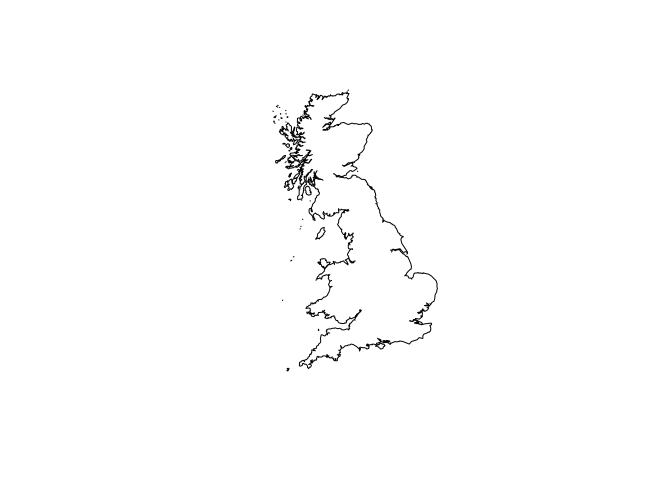
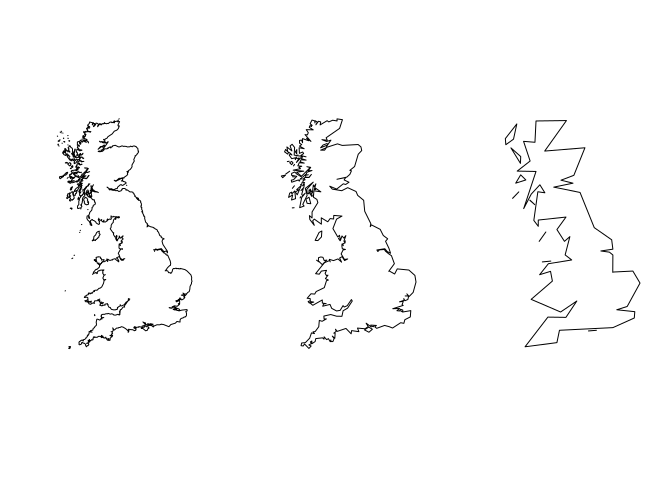
show resolution differences

diff --git a/README.md b/README.md
@@ -30,8 +30,19 @@ gshhg_get(version = "2.3.7")
 ``` r
 library(sf)
 
-dt <- st_read(
+# intermediate
+dt_i <- st_read(
   list.files(file.path(gshhg:::cache_path(), "2.3.7", "GSHHS_shp", "i"), 
+             pattern = "L1.shp", full.names = TRUE, include.dirs = TRUE))
+
+# low
+dt_l <- st_read(
+  list.files(file.path(gshhg:::cache_path(), "2.3.7", "GSHHS_shp", "l"), 
+             pattern = "L1.shp", full.names = TRUE, include.dirs = TRUE))
+
+# crude
+dt_c <- st_read(
+  list.files(file.path(gshhg:::cache_path(), "2.3.7", "GSHHS_shp", "c"), 
              pattern = "L1.shp", full.names = TRUE, include.dirs = TRUE))
 
 bb <- st_sfc(st_polygon(list(rbind(c(-6.46, 49.696), 
@@ -40,10 +51,16 @@ bb <- st_sfc(st_polygon(list(rbind(c(-6.46, 49.696),
                              c(2.417, 50.18), 
                              c(-6.46, 49.696)))), crs = 4326)
 
-dt_britain <- dt[sapply(st_within(dt, bb), 
+get_britain <- function(dt){
+  dt[sapply(st_within(dt, bb), 
                         function(x) length(x) > 0),]
+}
 
-plot(dt_britain$geometry)
+dt_britain <- lapply(list(dt_i, dt_l, dt_c), 
+                     function(x) get_britain(x))
+
+par(mfrow = c(1, 3))
+lapply(dt_britain, function(x) plot(st_geometry(x)))
 ```
 
 ![](README-unnamed-chunk-4-1.png)
